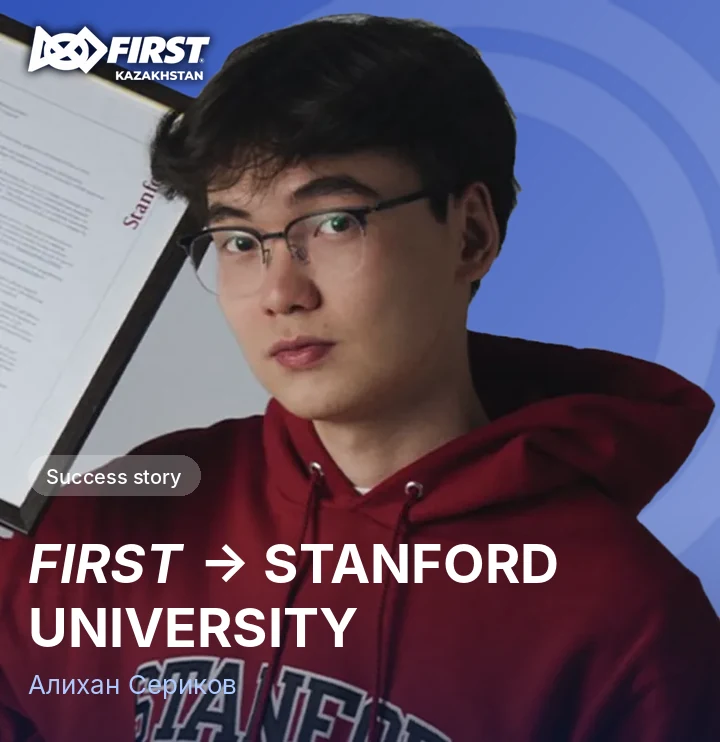
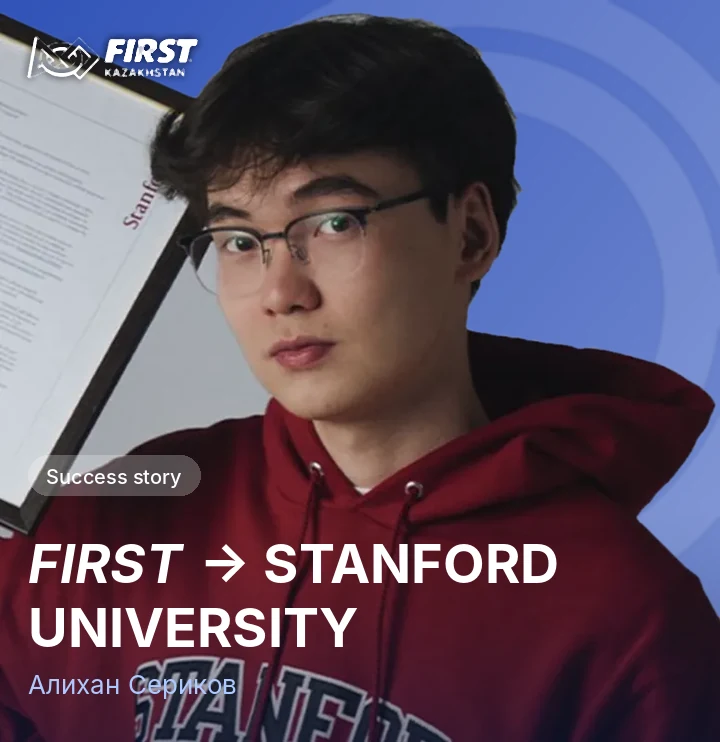
Выпускники: тонкий логотип у Алихана, голова Нурсултана на уровне остальных; воздух вокруг блока «О нас» (#60)
- Обложка Алихана: контурный логотип FIRST Kazakhstan той же толщины и на том же
  месте, что у Таира (тень лёгкая – под ним белый лист оффера).
- Обложка Нурсултана собрана заново из её же элементов: фото крупнее и прижато к
  правому нижнему углу, чтобы голова была на уровне других карточек; тот же текст,
  фон и логотип; остатки старой надписи на футболке убраны.
- Компьютер: больше отступов сверху и снизу у блока «О нас» под карточкой сезона.

Claude-Session: https://claude.ai/code/session_01XSZJ1ruQg7xJEC6u2ymEGA

Changed region(s): [[0.0306, 0.031, 0.3056, 0.124]]

diff --git a/assets/js/alumni.js b/assets/js/alumni.js
@@ -8,8 +8,8 @@ const ALUMNI=[
  {photo:"assets/img/alumni/stanford.webp",name:["Амира Махмеджан","Амира Махмеджан","Amira Makhmedzhan"],path:["FIRST → Stanford University","",""],text:["","",""],url:"https://www.instagram.com/p/DDKMTVxt2oR/"},
  {photo:"assets/img/alumni/kareneev.webp",name:["Таир Каренеев","Таир Каренеев","Tair Kareneyev"],path:["FIRST → Worcester Polytechnic Institute","",""],text:["","",""],url:"https://www.instagram.com/p/DEWtDdLM5T5/"},
  {photo:"assets/img/alumni/alibaev.webp",name:["Дамир Алибаев","Дамир Алибаев","Damir Alibayev"],path:["FIRST → University of Toronto","",""],text:["","",""],url:"https://www.instagram.com/p/DHQ53FPtkUF/?img_index=8"},
- {photo:"assets/img/alumni/serikov-cover.webp?v=20261023-0045",name:["Алихан Сериков","Алихан Сериков","Alikhan Serikov"],path:["FIRST → Stanford University","",""],text:["","",""],url:"https://www.instagram.com/p/DW1CnfrjIV5/?img_index=1"},
- {photo:"assets/img/alumni/zhanzakov.webp",name:["Нурсултан Жанзаков","Нұрсұлтан Жанзақов","Nursultan Zhanzakov"],path:["FIRST → Южная Корея","FIRST → Оңтүстік Корея","FIRST → South Korea"],text:["","",""],url:"https://www.instagram.com/p/DD4YOljuqRc/"}
+ {photo:"assets/img/alumni/serikov-cover.webp?v=20261023-0135",name:["Алихан Сериков","Алихан Сериков","Alikhan Serikov"],path:["FIRST → Stanford University","",""],text:["","",""],url:"https://www.instagram.com/p/DW1CnfrjIV5/?img_index=1"},
+ {photo:"assets/img/alumni/zhanzakov.webp?v=20261023-0135",name:["Нурсултан Жанзаков","Нұрсұлтан Жанзақов","Nursultan Zhanzakov"],path:["FIRST → Южная Корея","FIRST → Оңтүстік Корея","FIRST → South Korea"],text:["","",""],url:"https://www.instagram.com/p/DD4YOljuqRc/"}
 ];
 Object.assign(T.ru,{alh:"Выпускники FIRST® и их путь",alp:"Наши выпускники продолжают путь в науке, технологиях и инженерии. Их истории – тоже наше достижение.",alig:"Читать полностью",alsoon:"История выпускника скоро появится здесь"});
 Object.assign(T.kk,{alh:"FIRST® түлектері және олардың жолы",alp:"Түлектеріміз ғылым, технология және инженерия саласындағы жолын жалғастыруда. Олардың тарихы – біздің де жетістігіміз.",alig:"Толық оқу",alsoon:"Түлектің тарихы жақында осында болады"});

diff --git a/assets/css/style.css b/assets/css/style.css
@@ -63,7 +63,7 @@ button,select,input{font:inherit;color:inherit}
 @media(min-width:761px) and (max-height:780px){.hero{background-position:50% 50%}} /* невысокие экраны: лица на фото не уходят под текст */
 
 /* ---------- новый сезон ---------- */
-.season{padding:40px 0 48px} /* воздух над карточкой сезона и под ней до блока «О нас» */
+.season{padding:40px 0 56px} /* воздух над карточкой сезона и под ней до блока «О нас» */
 .sp{position:relative;display:grid;grid-template-columns:40% 1fr;overflow:visible;background:var(--cream);color:var(--brown2);padding:64px 60px 56px 72px;border-radius:12px;gap:32px 48px;align-items:center}
 .sp>*{position:relative}
 .sp>.sx{z-index:1}
@@ -87,7 +87,7 @@ h2.t.ul:after,h1.t.ul:after{content:"";display:block;width:96px;height:2px;backg
 .two>*{min-width:0}
 
 /* о нас */
-#about{padding:36px 0 20px}
+#about{padding:56px 0 50px}
 .ab .col{position:relative;height:410px;z-index:0}
 .ab figure{position:absolute;margin:0}
 .ab figure img{border-radius:16px;object-fit:cover;box-shadow:0 2px 10px rgba(16,24,40,.12);background:#e5e9f0}

diff --git a/index.html b/index.html
@@ -14,7 +14,7 @@
 <link rel="preconnect" href="https://fonts.gstatic.com" crossorigin>
 <link href="https://fonts.googleapis.com/css2?family=Inter:ital,wght@0,400;0,500;0,600;0,700;0,800;1,400;1,500;1,600;1,700;1,800&display=swap" rel="stylesheet">
 <script src="assets/js/top.js?v=20261023-0045"></script>
-<link rel="stylesheet" href="assets/css/style.css?v=20261023-0120">
+<link rel="stylesheet" href="assets/css/style.css?v=20261023-0135">
 </head>
 <body>
 
@@ -228,7 +228,7 @@
 
 <script src="assets/js/data.js?v=20261023-0120"></script>
 <script src="assets/js/kzmap.js?v=20261023-0120"></script>
-<script src="assets/js/alumni.js?v=20261023-0045"></script>
+<script src="assets/js/alumni.js?v=20261023-0135"></script>
 <script src="assets/data/sheet.js"></script>
 <script src="assets/data/news.js"></script>
 <script src="assets/data/status.js"></script>

diff --git a/404.html b/404.html
@@ -7,7 +7,7 @@
 <meta name="robots" content="noindex">
 <meta http-equiv="Content-Security-Policy" content="default-src 'self'; script-src 'self'; style-src 'self' 'unsafe-inline' https://fonts.googleapis.com; font-src https://fonts.gstatic.com; img-src 'self' data:; object-src 'none'; base-uri 'none'; form-action 'none'">
 <link rel="icon" type="image/png" href="/assets/img/x-logo.webp">
-<link rel="stylesheet" href="/assets/css/style.css?v=20261023-0120">
+<link rel="stylesheet" href="/assets/css/style.css?v=20261023-0135">
 <script src="/assets/js/notfound.js?v=20261020f"></script>
 </head>
 <body>

diff --git a/news.html b/news.html
@@ -10,7 +10,7 @@
 <link rel="preconnect" href="https://fonts.googleapis.com">
 <link rel="preconnect" href="https://fonts.gstatic.com" crossorigin>
 <link href="https://fonts.googleapis.com/css2?family=Inter:ital,wght@0,400;0,500;0,600;0,700;0,800;1,700;1,800&display=swap" rel="stylesheet">
-<link rel="stylesheet" href="assets/css/style.css?v=20261023-0120">
+<link rel="stylesheet" href="assets/css/style.css?v=20261023-0135">
 </head>
 <body>
 
